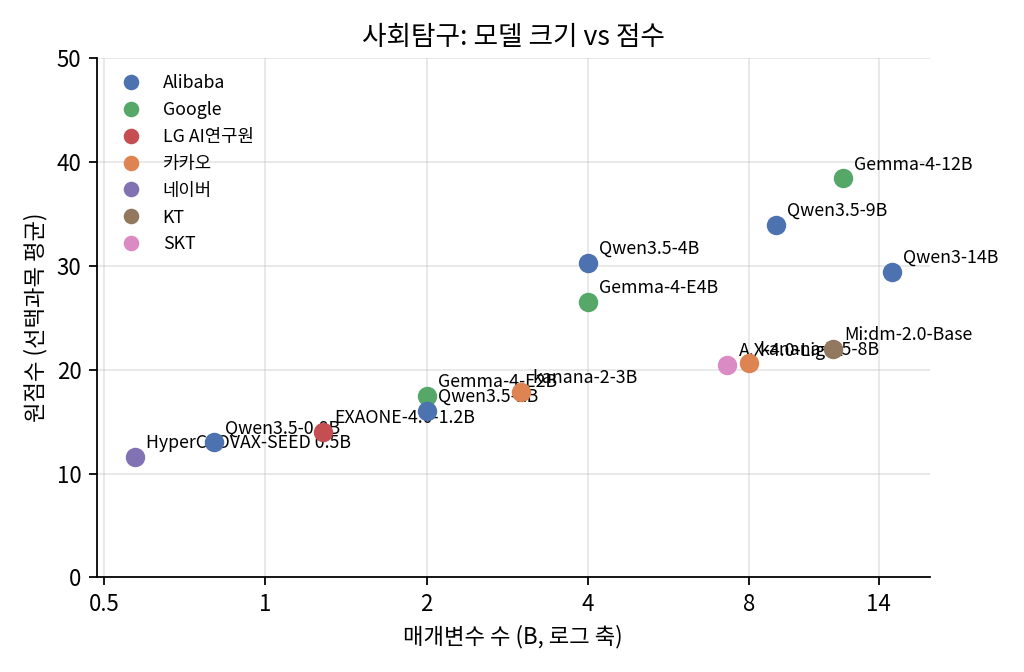
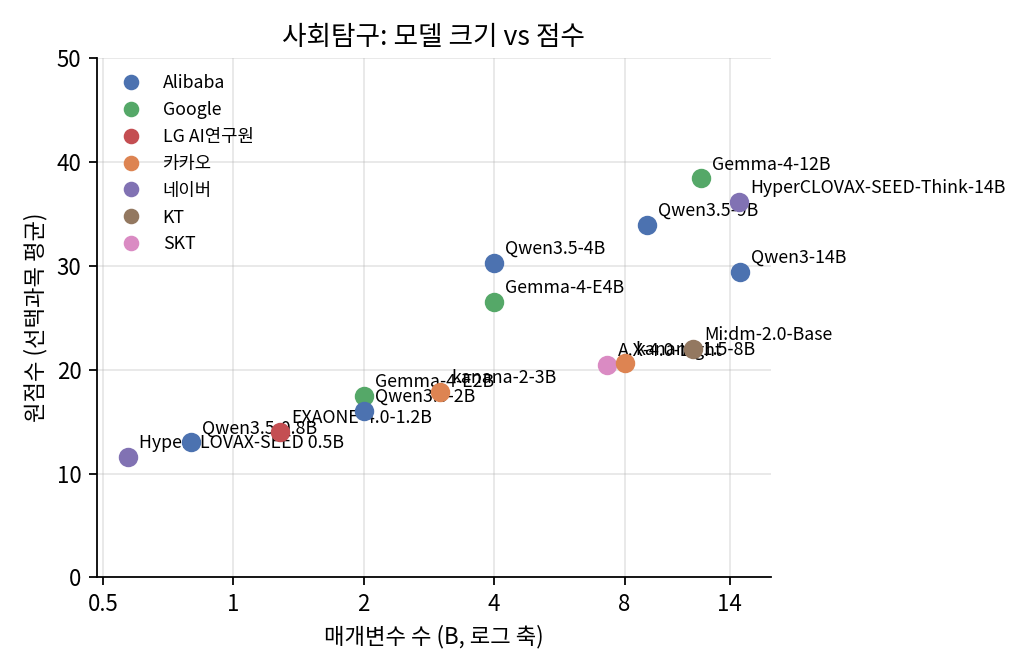
Update results (75 runs)

diff --git a/README.md b/README.md
@@ -8,14 +8,14 @@
 - **기기별로 보면** 보급형 스마트폰급 모델은 국어 최고 38점·수학 최고 78점·영어 최고 80점, 중급 스마트폰급 모델은 국어 최고 77점·수학 최고 90점·영어 최고 93점, 플래그십 스마트폰급 모델은 국어 최고 88점·수학 최고 93점·영어 최고 91점, 노트북·태블릿급 모델은 국어 최고 92점·수학 최고 93점·영어 최고 94점이다. (아래 표 참고, 메모리 기준 추정)
 - **영어**는 절대평가라 90점 이상이면 1등급이다. 중급 스마트폰에서 돌아가는 4B 모델(Gemma-4-E4B, 93점)부터 1등급 점수가 나왔고, 1등급 점수를 받은 모델은 모두 5개다. 단, 듣기는 음성 대신 대본을 읽고 풀었다.
 - **한국사**(50점 만점)는 40점 이상이면 1등급이다. 최고 점수는 HyperCLOVAX-SEED-Think-14B의 47점이다. 플래그십 스마트폰에서 돌아가는 8B 모델(kanana-1.5-8B, 41점)부터 1등급 점수가 나왔고, 1등급 점수를 받은 모델은 모두 3개다.
-- **사회탐구**(과목당 50점 만점) 과목별 최고 점수는 생활과 윤리 43점(Gemma-4-12B), 윤리와 사상 38점(Gemma-4-12B), 경제 45점(Qwen3.5-9B), 정치와 법 32점(Gemma-4-12B), 사회·문화 34점(Gemma-4-12B)이다. 도표·그래프는 글로 옮겨 제시했다.
+- **사회탐구**(과목당 50점 만점) 과목별 최고 점수는 생활과 윤리 43점(Gemma-4-12B), 윤리와 사상 38점(Gemma-4-12B), 경제 45점(Qwen3.5-9B), 정치와 법 36점(HyperCLOVAX-SEED-Think-14B), 사회·문화 35점(HyperCLOVAX-SEED-Think-14B)이다. 도표·그래프는 글로 옮겨 제시했다.
 - **1B 이하 모델**은 평균 정답률이 31%로, 5지선다를 무작위로 찍었을 때(20%)보다 조금 나은 수준이다. 생각을 끝내지 못하고 길이 제한에 걸리거나, 답을 정해진 형식으로 쓰지 못하는 경우가 많았다.
 - **수학**은 작은 모델도 잘 푼다. 4B 크기의 Gemma-4-E4B가 80점을 넘었다.
 - 시험지 맨 끝의 4점 단답형 고난도 문항(공통 21·22번, 선택 29·30번)은 모델 평균 정답률이 22%, 가장 잘 푼 모델도 67%에 그쳤다.
 - **국어가 수학보다 어렵다.** 2B 이상 모델 기준으로 국어 정답률이 수학보다 평균 11%p 낮다. 2,000–4,000자 길이의 지문을 읽고 선택지 사이의 미묘한 차이를 가려내는 일이 작은 모델에게는 계산보다 어렵다.
 - **국산 모델**: HyperCLOVAX-SEED 0.5B(국어 18점, 수학 19점, 영어 28점, 한국사 12점), EXAONE-4.0-1.2B(국어 31점, 수학 75점, 영어 63점, 한국사 16점), kanana-2-3B(국어 34점, 수학 39점, 영어 74점, 한국사 34점), A.X-4.0-Light(국어 49점, 수학 56점, 영어 83점, 한국사 32점), kanana-1.5-8B(국어 45점, 수학 42점, 영어 83점, 한국사 41점), Mi:dm-2.0-Base(국어 44점, 수학 54점, 영어 82점, 한국사 46점), HyperCLOVAX-SEED-Think-14B(국어 78점, 수학 79점, 영어 88점, 한국사 47점).
 
-> 마지막 업데이트: 2026-11-20 10:23 KST. 평가가 진행되는 동안 모델 하나가 끝날 때마다 이 페이지가 자동으로 갱신된다.
+> 마지막 업데이트: 2026-11-20 10:27 KST. 평가가 진행되는 동안 모델 하나가 끝날 때마다 이 페이지가 자동으로 갱신된다.
 
 ## 왜 소형 모델인가
 
@@ -101,7 +101,7 @@
 | Qwen3.5-9B | 알리바바 | 9.0 | 플래그십 스마트폰 | 87.7 <sub>(87–88)</sub> | 79.0 <sub>(76–81)</sub> | 90.4 <sub>(89–93)</sub> | 86.7 <sub>(82–92)</sub> | 92.8 <sub>(90–96)</sub> | 90.9 <sub>(89–93)</sub> | 28.6 <sub>(25–33)</sub> | 42.3 <sub>(40–45)</sub> | 25.8 <sub>(21–33)</sub> | 45.3 <sub>(44–48)</sub> | 28.5 <sub>(24–36)</sub> | 28.0 <sub>(24–34)</sub> |
 | Mi:dm-2.0-Base | KT | 11.5 | 노트북·태블릿 | 47.3 <sub>(46–50)</sub> | 41.0 <sub>(37–45)</sub> | 55.3 <sub>(55–56)</sub> | 50.3 <sub>(47–55)</sub> | 54.9 <sub>(51–59)</sub> | 82.3 <sub>(79–87)</sub> | 45.7 <sub>(41–48)</sub> | 30.7 <sub>(29–34)</sub> | 23.3 <sub>(21–25)</sub> | 17.3 <sub>(14–19)</sub> | 21.3 <sub>(17–28)</sub> | 17.3 <sub>(12–24)</sub> |
 | Gemma-4-12B | 구글 | 12.0 | 노트북·태블릿 | 91.7 <sub>(88–95)</sub> | 86.2 <sub>(78–93)</sub> | 88.5 <sub>(86–90)</sub> | 81.6 <sub>(82–82)</sub> | 88.5 <sub>(86–90)</sub> | 94.3 <sub>(91–96)</sub> | 39.2 <sub>(35–43)</sub> | 42.8 <sub>(39–47)</sub> | 37.5 <sub>(35–41)</sub> | 45.2 <sub>(40–50)</sub> | 32.2 <sub>(31–34)</sub> | 34.4 <sub>(32–37)</sub> |
-| HyperCLOVAX-SEED-Think-14B | 네이버 | 14.7 | 노트북·태블릿 | 80.9 <sub>(80–83)</sub> | 74.7 <sub>(72–77)</sub> | 80.5 <sub>(77–84)</sub> | 76.9 <sub>(73–81)</sub> | 80.8 <sub>(78–84)</sub> | 88.2 <sub>(87–89)</sub> | 47.3 <sub>(46–48)</sub> | — | — | — | — | — |
+| HyperCLOVAX-SEED-Think-14B | 네이버 | 14.7 | 노트북·태블릿 | 80.9 <sub>(80–83)</sub> | 74.7 <sub>(72–77)</sub> | 80.5 <sub>(77–84)</sub> | 76.9 <sub>(73–81)</sub> | 80.8 <sub>(78–84)</sub> | 88.2 <sub>(87–89)</sub> | 47.3 <sub>(46–48)</sub> | 38.0 <sub>(34–45)</sub> | 35.7 <sub>(34–39)</sub> | 36.7 <sub>(31–44)</sub> | 35.7 <sub>(34–37)</sub> | 34.7 <sub>(31–37)</sub> |
 | Qwen3-14B | 알리바바 | 14.8 | 노트북·태블릿 | 72.0 <sub>(68–77)</sub> | 64.7 <sub>(64–66)</sub> | 91.7 <sub>(90–96)</sub> | 87.2 <sub>(85–89)</sub> | 92.8 <sub>(93–93)</sub> | 90.3 <sub>(89–93)</sub> | 24.0 <sub>(22–25)</sub> | 38.0 <sub>(35–40)</sub> | 20.3 <sub>(16–24)</sub> | 36.3 <sub>(30–40)</sub> | 25.7 <sub>(23–27)</sub> | 26.7 <sub>(18–36)</sub> |
 
 **국어·수학·영어 원점수**
@@ -174,7 +174,7 @@
 | Qwen3.5-9B | 0.80 / 0.79 / 0.07 / 0.07 / 7616 | 0.90 / 0.89 / 0.11 / 0.11 / 7024 | 0.91 / 0.91 / 0.01 / 0.01 / 3250 | 0.57 / 0.57 / 0.03 / 0.03 / 8780 | 0.68 / 0.67 / 0.08 / 0.09 / 8504 |
 | Mi:dm-2.0-Base | 0.45 / 0.45 / 0.00 / 0.00 / 361 | 0.55 / 0.54 / 0.01 / 0.01 / 851 | 0.84 / 0.84 / 0.00 / 0.00 / 251 | 0.90 / 0.90 / 0.00 / 0.00 / 265 | 0.45 / 0.45 / 0.00 / 0.00 / 371 |
 | Gemma-4-12B | 0.86 / 0.86 / 0.05 / 0.05 / 5240 | 0.89 / 0.88 / 0.12 / 0.12 / 6271 | 0.94 / 0.94 / 0.00 / 0.00 / 1211 | 0.79 / 0.78 / 0.02 / 0.02 / 3103 | 0.78 / 0.76 / 0.11 / 0.11 / 6245 |
-| HyperCLOVAX-SEED-Think-14B | 0.74 / 0.73 / 0.00 / 0.00 / 5140 | 0.79 / 0.78 / 0.06 / 0.06 / 6694 | 0.89 / 0.89 / 0.02 / 0.00 / 2236 | 0.93 / 0.93 / 0.00 / 0.00 / 2267 | — |
+| HyperCLOVAX-SEED-Think-14B | 0.74 / 0.73 / 0.00 / 0.00 / 5140 | 0.79 / 0.78 / 0.06 / 0.06 / 6694 | 0.89 / 0.89 / 0.02 / 0.00 / 2236 | 0.93 / 0.93 / 0.00 / 0.00 / 2267 | 0.74 / 0.74 / 0.00 / 0.00 / 6956 |
 | Qwen3-14B | 0.62 / 0.62 / 0.00 / 0.00 / 1395 | 0.91 / 0.90 / 0.10 / 0.09 / 4721 | 0.91 / 0.91 / 0.00 / 0.00 / 635 | 0.48 / 0.48 / 0.00 / 0.00 / 1561 | 0.60 / 0.60 / 0.00 / 0.00 / 3066 |
 
 ## 평가 방법
